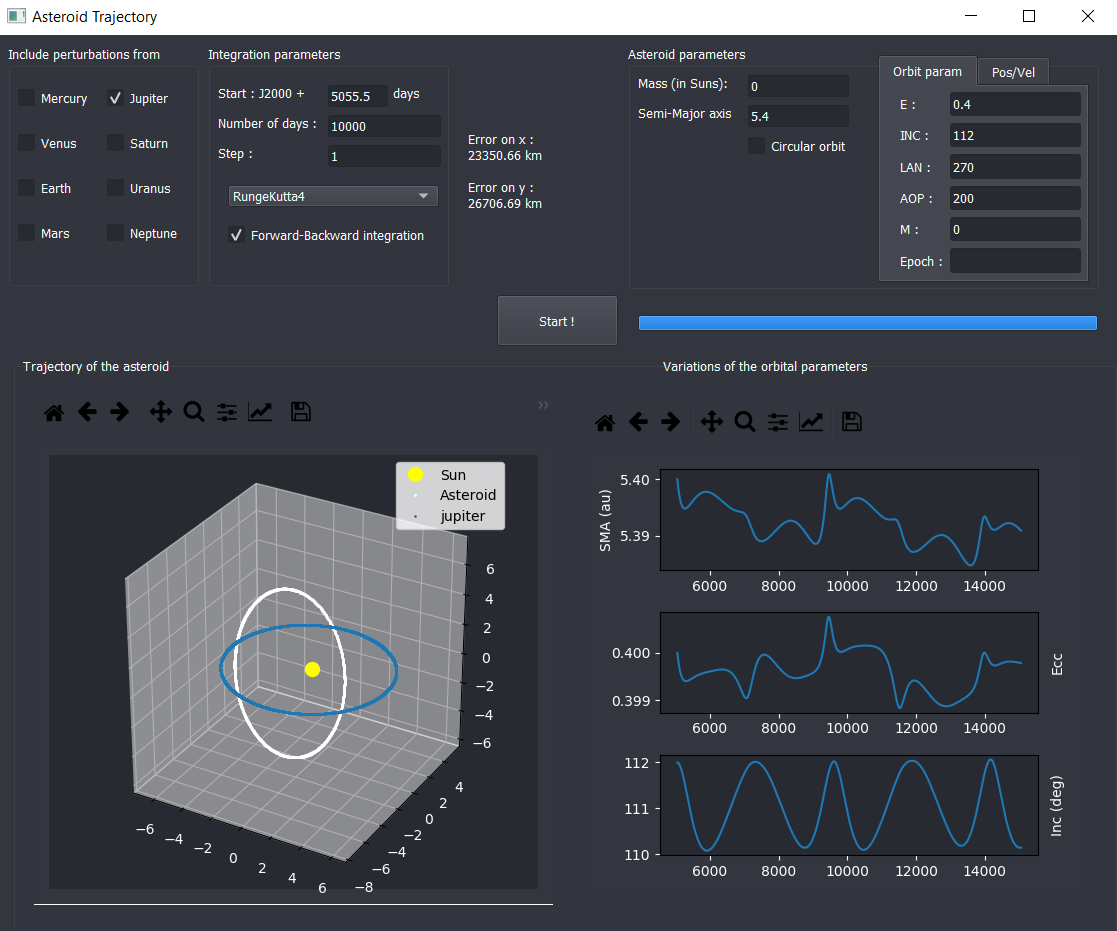
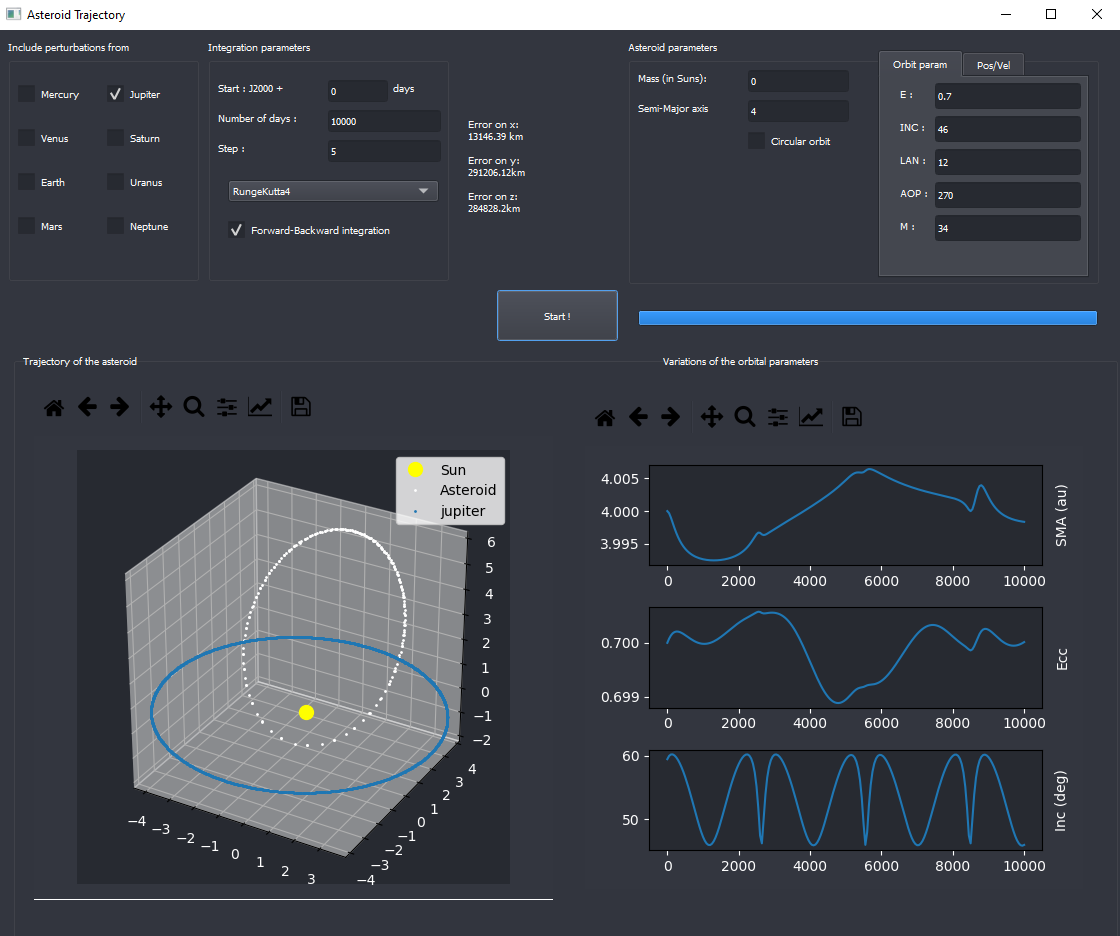
Updated Asteroid_trajectory.py, works with the asteroid 2007 VW266

diff --git a/Asteroid_trajectory.py b/Asteroid_trajectory.py
@@ -4,7 +4,7 @@ import time as chrono
 
 
 class planet(object):
-    def __init__(self, m, a, i, e, Omega, omega, M0, t0=0):
+    def __init__(self, m, a, i, e, Omega, omega, M0):
         self.m = m
         self.a = a
         self.i = np.radians(i)
@@ -12,7 +12,6 @@ class planet(object):
         self.Omega = np.radians(Omega)
         self.omega = np.radians(omega)
         self.M0 = np.radians(M0)
-        self.t0 = t0
         self.T = np.sqrt((4 * np.pi ** 2) / (G * (m_sun + self.m)) * self.a ** 3)
         self.w = 2 * np.pi / self.T
 
@@ -28,7 +27,7 @@ class planet(object):
 
     def completeOrbitalElem2Vector(self, t):
         self.n = k / np.sqrt(self.a ** 3)
-        self.M = self.M0 + self.n * (t - self.t0)
+        self.M = self.M0 + self.n * (t)
         self.E = self.newton(self.keplerEquation, self.M0)
         self.bigX = self.a * (np.cos(self.E) - self.e)
         self.bigY = self.a * np.sqrt(1 - self.e ** 2) * np.sin(self.E)
@@ -44,7 +43,8 @@ class planet(object):
                                              self.rotation1(-self.i)),
                                       self.rotation3(-self.omega)),
                                np.array([[self.bigXdot], [self.bigYdot], [0]]))
-        return [self.position[0, 0], self.position[1, 0], self.position[2, 0]]
+        return [self.position[0, 0], self.position[1, 0], self.position[2, 0],
+                self.velocity[0, 0], self.velocity[1, 0], self.velocity[2, 0]]
 
     def rotation1(self, theta):
         return np.array([[1, 0, 0],
@@ -67,106 +67,76 @@ class planet(object):
         return E - self.e * np.sin(E) - self.M
 
 
-class twoBody():  # Only the Sun exerts it's influence on the body.
+class MultiBody():
+    ''' This class groups together 3 functions :
+        - the Equation of Motion, which is the core of the program
+        - The Ruunge Kutta 4 integrator
+        - The Forward Backward method'''
+
     @classmethod
-    def func(cls, t, y):  # using the state space representation of the equation of motion
+    def func(cls, t, y, planets):
+        ''' State space representation of the Equation of Perturbated Motion
+            Takes into account every selected planet.'''
+
         y0 = y[3]  # velocity on x
         y1 = y[4]  # velocity on y
         y2 = y[5]  # velocity on z
         r = np.sqrt(y[0] ** 2 + y[1] ** 2 + y[2] ** 2)  # norm of the vector r
-        y3 = -G * (m_sun + m_object) / (r ** 3) * \
-            y[0]  # equation of motion on x
-        y4 = -G * (m_sun + m_object) / (r ** 3) * \
-            y[1]  # equation of motion on y
-        y5 = -G * (m_sun + m_object) / (r ** 3) * \
-            y[2]  # equation of motion on z
+        y3 = -G * (m_sun + float(asteroid.m)) / (r ** 3) * y[0]
+        y4 = -G * (m_sun + float(asteroid.m)) / (r ** 3) * y[1]
+        y5 = -G * (m_sun + float(asteroid.m)) / (r ** 3) * y[2]
+        for planet in planets:
+            pos = planet.completeOrbitalElem2Vector(t)
+            # delta is the difference between 'r' and 'pos', it is the distance between asteroid & planet
+            delta = np.sqrt((y[0] - pos[0]) ** 2 + (y[1] - pos[1])
+                            ** 2 + (y[2] - pos[2]) ** 2)
+            # equation of motion on x
+            y3 += - G * planet.m * ((y[0] - pos[0]) / (delta ** 3) + pos[0] / np.linalg.norm(pos) ** 3)
+            # equation of motion on y
+            y4 += - G * planet.m * ((y[1] - pos[1]) / (delta ** 3) + pos[1] / np.linalg.norm(pos) ** 3)
+            # equation of motion on z
+            y5 += - G * planet.m * ((y[2] - pos[2]) / (delta ** 3) + pos[2] / np.linalg.norm(pos) ** 3)
         return np.array([y0, y1, y2, y3, y4, y5])
 
     @classmethod
-    def RK4(cls, time_vector, initial_conditions, h):
-        # Definition of the Runge-Kutta method at the order 4
+    def RK4(cls, time_vector, initial_conditions, h, planets):
+        ''' Runge kutta 4 integrator :
+            takes a time vector, an initial conditions vector, a step and a list of planets
+            as an input, and outputs the list of positions and accelerations'''
+
         results = []
         yin = initial_conditions
         results.append(yin)  # set the first value to the initial conditions
         for t in time_vector[1:]:
-            k1 = cls.func(t, yin)
-            k2 = cls.func(t + h / 2, yin + h / 2 * k1)
-            k3 = cls.func(t + h / 2, yin + h / 2 * k2)
-            k4 = cls.func(t + h, yin + h * k3)
+            k1 = cls.func(t, yin, planets)
+            k2 = cls.func(t + h / 2, yin + h / 2 * k1, planets)
+            k3 = cls.func(t + h / 2, yin + h / 2 * k2, planets)
+            k4 = cls.func(t + h, yin + h * k3, planets)
             yin = yin + h / 6 * (k1 + 2 * k2 + 2 * k3 + k4)
             # each value calculated for given t is added to the list
             results.append(yin)
         return np.array(results)
 
     @classmethod
-    def forward_backward(cls, time_vector, initial_conditions, h):
-        # allows for error computation. we just need to compute the difference at the starting point
-        # call RK4 in forward movement
-        y_forward = cls.RK4(time_vector, initial_conditions, h)
+    def forward_backward(cls, time_vector, initial_conditions, h, planets):
+        ''' Calls the RK4 integrator a first time from the initial condition,
+            and a second time from the results, thus going back to the very
+            first starting point. By computing the difference between the results
+            and the initital conditions at the starting point, we obtain the
+            errors due to the integration'''
+
+        y_forward = cls.RK4(time_vector, initial_conditions, h, planets)  # call RK4 forwards
         new_y0 = y_forward[-1]  # new initial conditions
-        y_backward = cls.RK4(np.flip(time_vector),
-                             new_y0, -h)  # call RK4 backwards
-        return y_forward, y_backward
+        y_backward = cls.RK4(np.flip(time_vector), new_y0, - h, planets)  # call RK4 backwards
 
-
-class threeBody():
-    @classmethod
-    def func(cls, t, y, planet):
-        y0 = y[3]  # velocity on x
-        y1 = y[4]  # velocity on y
-        y2 = y[5]  # velocity on z
-        r = np.sqrt(y[0] ** 2 + y[1] ** 2 + y[2] ** 2)  # norm of the vector r
-        pos = planet.completeOrbitalElem2Vector(t)
-        # delta is the difference between r and position_Jupiter (distance between the asteroid and jupiter)
-        delta = np.sqrt((y[0] - pos[0]) ** 2 + (y[1] - pos[1]) ** 2 + (y[2] - pos[2]) ** 2)
-        # equation of motion on x
-        y3 = -G * (m_sun + m_object) / (r ** 3) * y[0] \
-             - G * planet.m * ((y[0] - pos[0]) / (delta ** 3) + pos[0] / np.linalg.norm(pos) ** 3)
-        # equation of motion on y
-        y4 = -G * (m_sun + m_object) / (r ** 3) * y[1] \
-             - G * planet.m * ((y[1] - pos[1]) / (delta ** 3) + pos[1] / np.linalg.norm(pos) ** 3)
-        # equation of motion on z
-        y5 = -G * (m_sun + m_object) / (r ** 3) * y[2] \
-             - G * planet.m * ((y[2] - pos[2]) / (delta ** 3) + pos[2] / np.linalg.norm(pos) ** 3)
-        return np.array([y0, y1, y2, y3, y4, y5])
-
-    @classmethod
-    def RK4(cls, time_vector, initial_conditions, h, planet):
-        # Definition of the Runge-Kutta method at the order 4
-        results = []
-        yin = initial_conditions
-        results.append(yin)  # set the first value to the initial conditions
-        for i in range(1, len(time_vector[1:])):
-            k1 = cls.func(time_vector[i], yin, planet)
-            k2 = cls.func(time_vector[i] + h / 2, yin + h / 2 * k1, planet)
-            k3 = cls.func(time_vector[i] + h / 2, yin + h / 2 * k2, planet)
-            k4 = cls.func(time_vector[i] + h, yin + h * k3, planet)
-            yin = yin + h / 6 * (k1 + 2 * k2 + 2 * k3 + k4)
-            # each value calculated for given t is added to the list
-            results.append(yin)
-        return np.array(results)
-
-    @classmethod
-    def forward_backward(cls, time_vector, initial_conditions, h, planet):
-        # allows for error computation. we just need to compute the difference at the starting point
-        y_forward = cls.RK4(time_vector, initial_conditions, h, planet)  # call RK4 in forward movement
-        new_y0 = y_forward[-1]  # new initial conditions
-        y_backward = cls.RK4(np.flip(time_vector), new_y0, -h, planet)  # call RK4 backwards
         return y_forward, y_backward
 
 
 def extract_vectors(results):
-    # takes the list of outputs from RK4 and extracts a list of position and velocity vectors
-    r_list = []
-    r_dot_list = []
-    for i in range(len(results)):
-        r = []
-        r_dot = []
-        for j in range(0, 3):
-            r.append(results[i][j])
-            r_dot.append(results[i][j + 3])
-        r_list.append(r)
-        r_dot_list.append(r_dot)
+    '''takes the list of outputs from RK4 and extracts a list of position and velocity vectors'''
+
+    r_list = [[results[i][j] for j in range(0, 3)] for i in range(len(results))]
+    r_dot_list = [[results[i][j + 3] for j in range(0, 3)] for i in range(len(results))]
     return r_list, r_dot_list
 
 
@@ -215,68 +185,43 @@ def plotOrbitalVariation(a, e, i, t):
 
 # initial variables
 m_sun = 1  # mass of the Sun
-m_object = 0  # mass of the object studied
-a = (5.2 ** 3 / (3) ** 2) ** (1 / 3)  # semi-major axis
 G = 0.000295824  # gravitation constant expressed in our own system of units
 k = np.sqrt(G)
 mu = G * m_sun
 
-# definition of Jupiter orbital parameters
+# Creation of the each planet from their orbital parameters at J2000
+# mercury=planet(m_sun / 6023622.047, 0.38709893, 7.00487, 0.20563069, 48.33167, 77.45645, 126.464)
+# venus=planet(m_sun / 408544.7263,  0.72333199, 3.39471, 0.00677323, 76.68069, 131.53298, -26.23394)
+# earth=planet(m_sun / 332965.0462, 1, 0.00005, 0.01671022, 348.73936, 102.94719, -351.2222)
+# mars=planet(m_sun / 3098854.873, 1.52366231,  1.85061,  0.09341233, 49.57854, 336.04084, -30.16606)
 jupiter = planet(m_sun / 1047.348625, 5.202603, 1.303, 0.048498, 100.46, -86.13, 20.0)
-
-# initial conditions of the asteroid [pos x, pos y, pos z, v x, v y, v z]
-init_state = np.array([a, 0.0, 0.0, 0.0, k / np.sqrt(a), 0.0])
+# saturn=planet(m_sun / 3498.926925, 9.5370703, 2.484, 0.054151, 113.72, 92.43, -156.2)
+# uranus=planet(m_sun / 22906.30182, 19.19126393, 0.76986, 0.04716771, 74.22988, 170.96424, 68.0392)
+# neptune=planet(, m_sun / 19418.13922, 30.06896348, 1.76917, 0.00858587,  131.72169, 44.97135, 128.19)
 
 # integration parameters
-tf = 40000  # final time
-ti = 0  # starting time
+tf = 50000  # Number of days
+ti = 5055.5  # starting time (Epoch)
 step = 1  # step wanted
 
 # creation of the list containing each value of time
-time = np.arange(ti, tf + step, step)
+time = np.arange(ti, tf + step + ti, step)
 
-# =============================================================================================
-# Start of the computation for 2 body problem
-# =============================================================================================
-'''
-start_time = chrono.time()
-forward, backward = twoBody.forward_backward(time, init_state, step)
+# initial conditions of the asteroid [pos x, pos y, pos z, v x, v y, v z]
+asteroid = planet(0, 5.454, 108.358, 0.3896, 276.509, 226.107, 146.88)
+init_state = np.array(asteroid.completeOrbitalElem2Vector(ti))
 
-# computation of the error between forward and backward
-err_x = 150e6 * abs(forward[0][0] - backward[-1][0])
-err_y = 150e6 * abs(forward[0][1] - backward[-1][1])
-print(' Error on x : ', err_x, ' km\n', 'Error on y : ', err_y, ' km')
-
-# TODO: Add automatic step adjustment in function of the error ?
-
-# plot of the trajectory
-plt.plot(forward[:, 0], forward[:, 1], 'o', color='red', markersize=1)
-plt.axis('equal')
-plt.title('Unperturbed trajectory around the sun')
-plt.show()
-
-# get the position and velocity from previous results
-#r_list, rdot_list = extract_vectors(forward)
-
-# calculate the orbital parameters from the position and velocity
-#a_list, e_list, i_list = orbital_parameters_list(r_list, rdot_list)
-
-# plot the orbital parameters
-#plotOrbitalVariation(a_list, e_list, i_list, time)
-
-stop_time = chrono.time()
-print("Computation time = ", stop_time-start_time, " seconds")
-'''
 # =============================================================================================
 # Start of the computation for 3 body problem
 # =============================================================================================
 start_time = chrono.time()
-forward2, backward2 = threeBody.forward_backward(time, init_state, step, jupiter)
+forward2, backward2 = MultiBody.forward_backward(time, init_state, step, [jupiter])
 
 # computation of the error between forward and backward
-err_x2 = 150e6 * abs(forward2[0][0] - backward2[-1][0])
-err_y2 = 150e6 * abs(forward2[0][1] - backward2[-1][1])
-print(' Error on x : ', err_x2, ' km\n', 'Error on y : ', err_y2, ' km')
+err_x = 150e6 * abs(forward2[0][0] - backward2[-1][0]) / 2
+err_y = 150e6 * abs(forward2[0][1] - backward2[-1][1]) / 2
+err_z = 150e6 * abs(forward2[0][2] - backward2[-1][2]) / 2
+print(' Error on x : ', err_x, ' km\n', 'Error on y : ', err_y, ' km\n', 'Error on z : ', err_z, ' km')
 
 # plot of the trajectory
 jup_param = jupiter.orbitalparam2vectorList(time)
@@ -294,7 +239,7 @@ r_list, rdot_list = extract_vectors(forward2)
 a_list, e_list, i_list = orbital_parameters_list(r_list, rdot_list)
 
 # plot the orbital parameters
-plotOrbitalVariation(a_list, e_list, i_list, time[1:])
+plotOrbitalVariation(a_list, e_list, i_list, time)
 
 stop_time = chrono.time()
 print("Computation time = ", stop_time - start_time, " seconds")

diff --git a/main_GUI.py b/main_GUI.py
@@ -509,9 +509,9 @@ class Ui_MainWindow(object):
             self.err_x = 150e6 * abs(self.forward[0][0] - self.backward[-1][0]) / 2
             self.err_y = 150e6 * abs(self.forward[0][1] - self.backward[-1][1]) / 2
             self.err_z = 150e6 * abs(self.forward[0][2] - self.backward[-1][2]) / 2
-            self.fwbwOutputLabel.setText(f"Error on x: \n{str(round(self.err_x, 2))} km\n\n \
-                                            Error on y: \n{str(round(self.err_y, 2))} km\n\n \
-                                            Error on z: \n{str(round(self.err_z, 2))} km")
+            self.fwbwOutputLabel.setText("Error on x: \n" + str(round(self.err_x, 2)) +
+                                         " km\n\nError on y: \n" + str(round(self.err_y, 2)) +
+                                         "km\n\nError on z: \n" + str(round(self.err_z, 2)) + "km")
             self.results = self.forward  # Store the results from the forward integration in a dedicated list
 
         else:  # if the user did not ask for a fw-bw integration, then only compute the results.
@@ -715,7 +715,7 @@ class Asteroid(planet):
             initial position and velocity vector. All the values are read from the inputs.'''
 
         if ui.circularCheckBox.checkState():  # Circular initial orbit
-            self.a = float(ui.inputAsteroidSmAxis.text())
+            self.a = float(ui.inputAsteroidSMaxis.text())
             self.init_state = np.array([self.a, 0, 0,
                                         0, k / np.sqrt(self.a), 0])
             return self.init_state
@@ -729,7 +729,7 @@ class Asteroid(planet):
                 return self.init_state
 
             else:  # defined by orbital parameters
-                self.a = float(ui.inputAsteroidSmAxis.text())
+                self.a = float(ui.inputAsteroidSMaxis.text())
                 self.i = np.radians(float(ui.inputInc.text()))
                 self.e = float(ui.inputEcc.text())
                 self.Omega = np.radians(float(ui.inputLan.text()))

diff --git a/README.md b/README.md
@@ -6,7 +6,7 @@ This project is part of my CIRI (Cours d’Initiation à la Recherche et à l’
 
 The objective is to model the trajectory of an asteroid in the solar system subject to perturbations from Jupiter. We then study the variations of the orbital parameters such as the semi-major axis, the eccentricity and the inclination after a few centuries. This allows us to visualize the resonances.
 
-We went further by adding all the other planets  in the solar system, which we can choose from using a Graphical User Interface. The orbital parameters of the asteroid are user-defined, as well as the integration parameters.
+We went further by adding all the other planets  in the solar system, which we can choose using a Graphical User Interface. The orbital parameters of the asteroid are user-defined, as well as the integration parameters.
 
 ## How to use
 
@@ -47,7 +47,7 @@ If you want to re-run the simulation with other parameters, simply change the de
 - Asteroid parameters :
   - Circular orbit
   - User defined orbit with parameters
-  - User defined orbit with position and velocity
+  - User defined orbit with position and velocity (bugs)
 - Plot of the trajectory of every selected body in 3d
 - Plot of the orbital parameters changes due to perturbation (only if a planet has been selected)
 
@@ -58,7 +58,8 @@ If you want to re-run the simulation with other parameters, simply change the de
 - Option to choose from simplified or accurate planet trajectory model
 - more integrators
 - input proofing and displaying errors instead of crashing the program
-- Logging
 - Saving the results to a file for use in Excel for example
 - Improve Performance
 - re-write some functions in C++ to improve performance 
+
+### Contributions are welcome !
